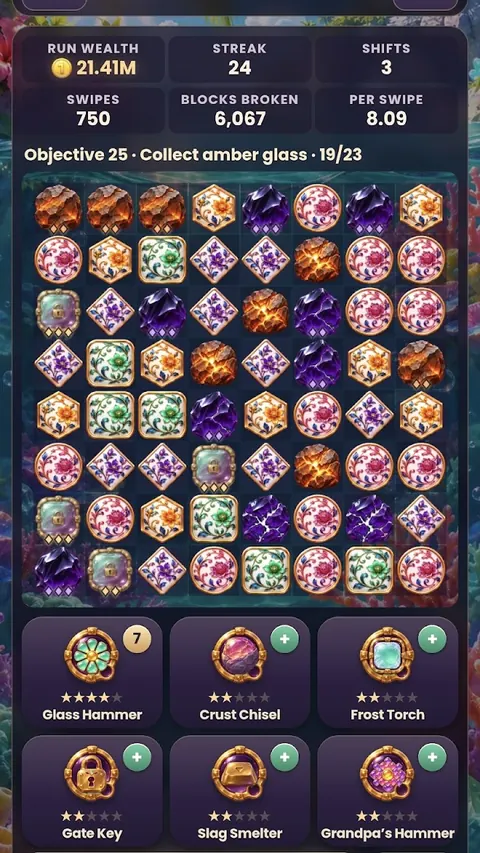
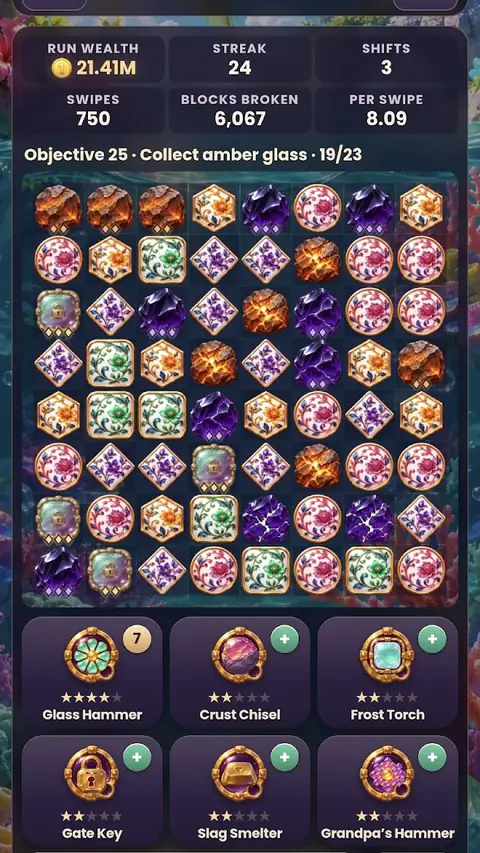
Games page: load the Forge Rush card image first (LCP 2.5s to 1.3s on throttled desktop)
Claude-Session: https://claude.ai/code/session_01U9cMoz2exwvdh1STJGpkzP

diff --git a/games/index.html b/games/index.html
@@ -5,6 +5,7 @@
 <meta name="viewport" content="width=device-width, initial-scale=1">
 <meta http-equiv="Content-Security-Policy" content="default-src 'self'; script-src 'self'; style-src 'self'; img-src 'self' data:; font-src 'self'; connect-src 'self'; object-src 'none'; base-uri 'self'; form-action 'none'">
 <meta name="referrer" content="strict-origin-when-cross-origin">
+<link rel="preload" as="image" href="../assets/ss-forge-rush-board.webp" fetchpriority="high">
 <title>All games | Tivexa Games</title>
 <meta name="description" content="All 10 Tivexa games on Google Play, with links to the three you can play free in your browser.">
 <link rel="canonical" href="https://tivexa.games/games/">
@@ -46,7 +47,7 @@
   <h2 id="gp-title" class="vh">Games on Google Play</h2>
   <ul class="games-grid">
 <li class="card g-forge-rush big">
-  <div class="shot"><img src="../assets/ss-forge-rush-board.webp" alt="Forge Rush gem board" width="200" height="400" loading="lazy" decoding="async"></div>
+  <div class="shot"><img src="../assets/ss-forge-rush-board.webp" alt="Forge Rush gem board" width="200" height="400" fetchpriority="high"></div>
   <div class="body">
     <div class="head"><img src="../assets/icon-forge-rush.webp" alt="" width="44" height="44" loading="lazy"><div><h3>Forge Rush</h3><span class="meta">Ads · In-app purchases</span></div></div>
     <p>Match gems, shift whole rows and keep your streak alive to help Grandpa relight the Lighthouse. An endless run that gets tougher as you go.</p>
